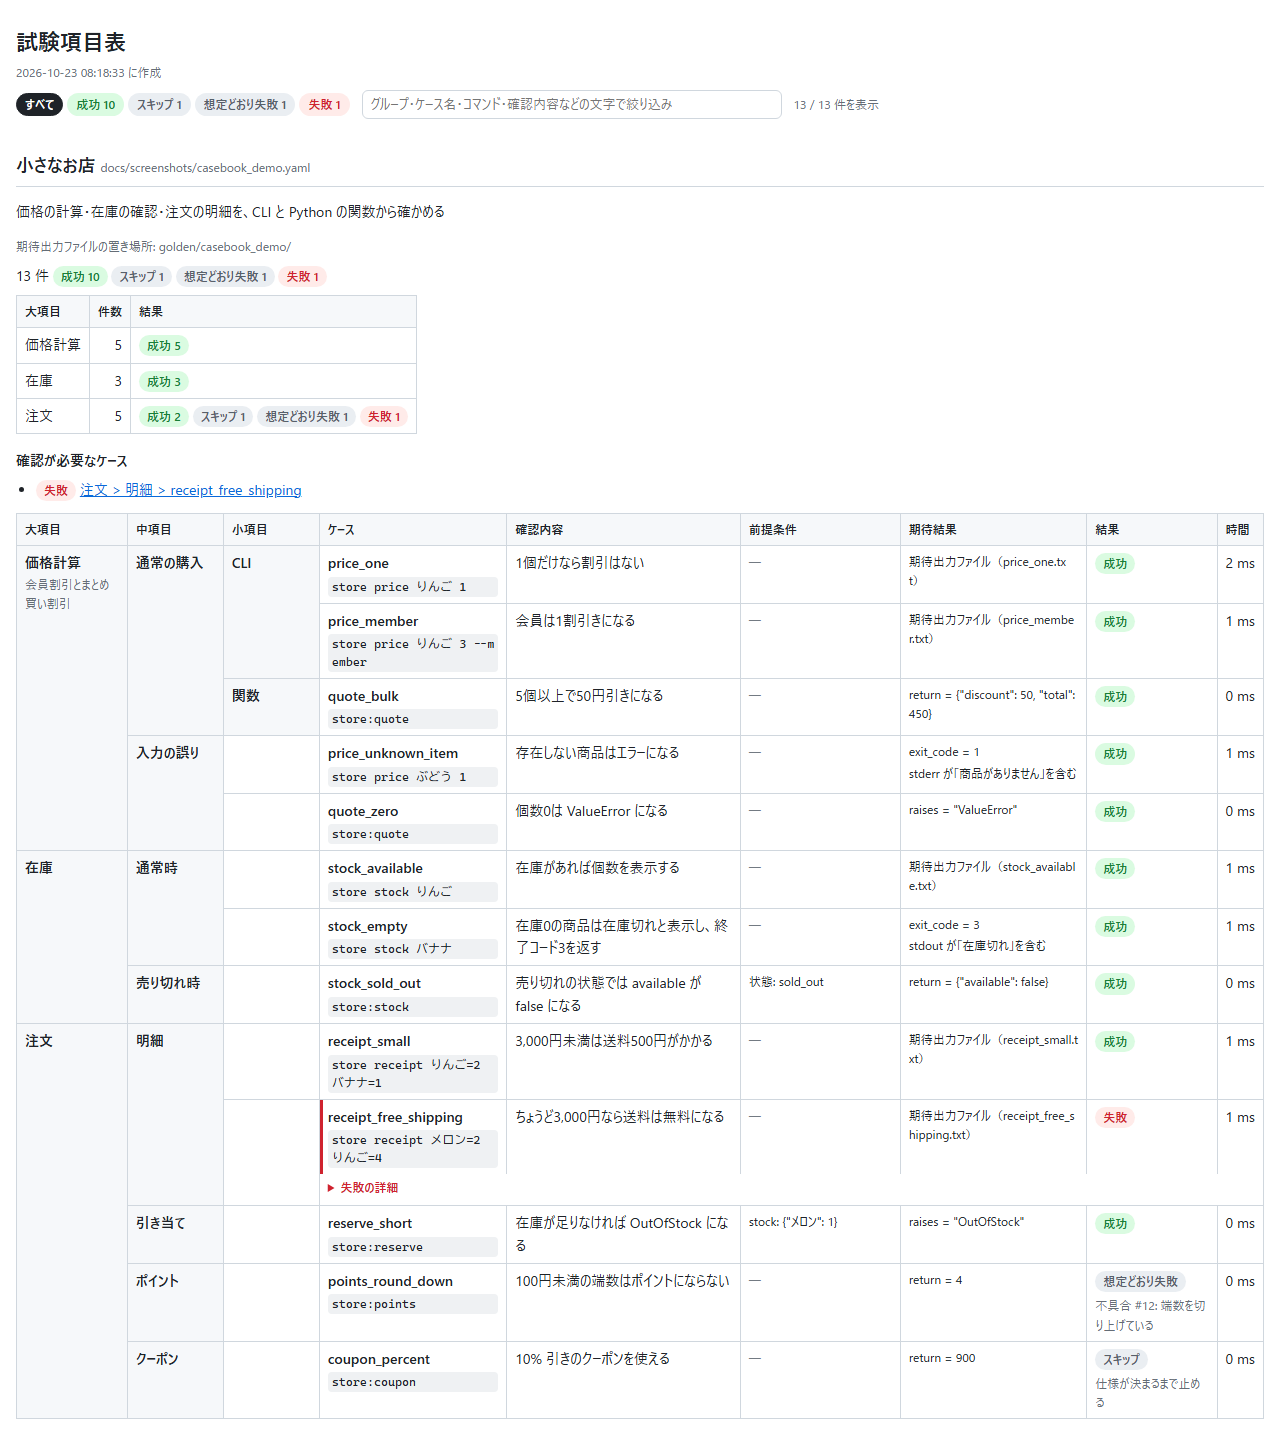
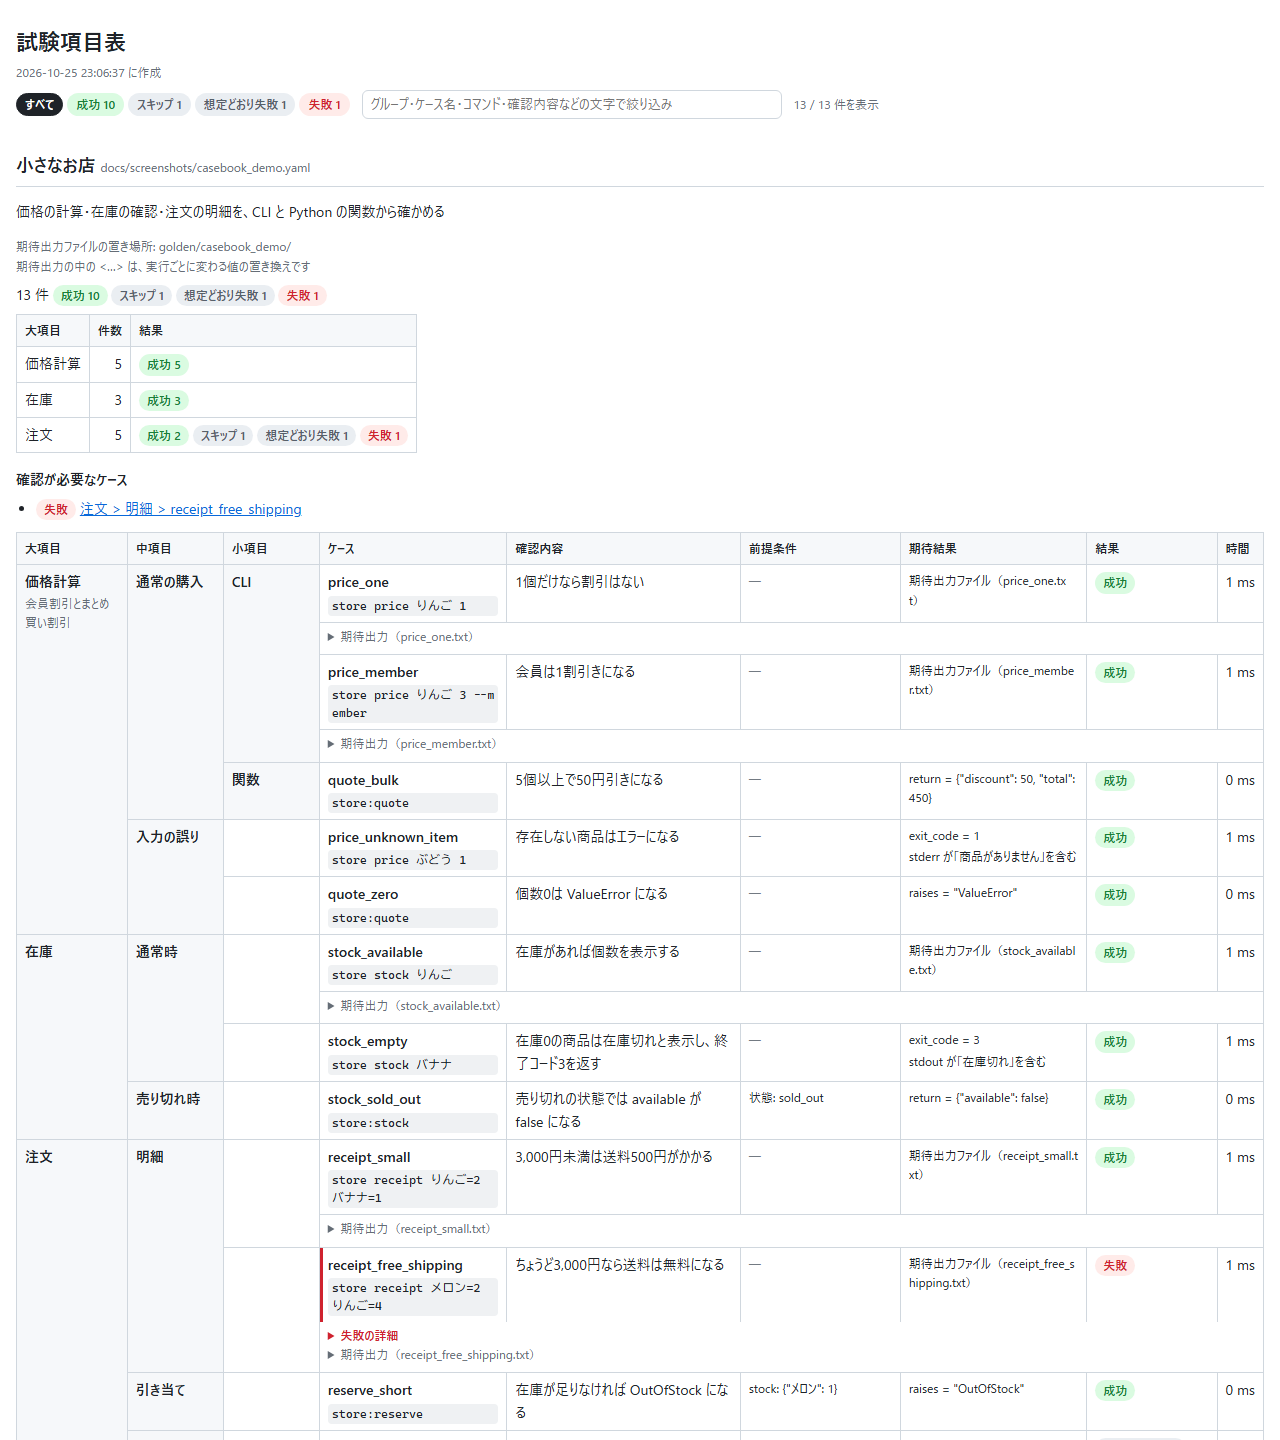
pytest-casebook: screenshots show the golden contents; clearer observe label (#46)
- The README screenshots are regenerated with 0.7.0: the folded golden rows are visible,
  and the top image opens the first one (price_one.txt) so the contents can be seen.
  scripts/screenshots.sh counts only case rows when trimming the top image and opens the
  first golden fold
- The intro sentence above the screenshot mentions the folded golden contents (en / ja)
- The Japanese report label 「観察: …」 becomes 「実行後の値: …」, matching the README
  section 「実行後の値 (observe)」

- README のスクショを 0.7.0 で作り直した。期待出力の折りたたみの行が写り、冒頭の画像では
  最初の期待出力（price_one.txt）を開いて中身を見せる。scripts/screenshots.sh は、冒頭の
  画像を切るときにケースの行だけを数え、最初の期待出力を開くようにした
- スクショの上の説明文にも、期待出力の折りたたみの一言を足した（日英）
- 日本語のレポートの「観察: …」を、README の節名（実行後の値 (observe)）に合わせて
  「実行後の値: …」にした

diff --git a/tests/test_setup_observe_expect.py b/tests/test_setup_observe_expect.py
@@ -415,7 +415,7 @@ def test_html_shows_precondition_and_expected(db_project: pytest.Pytester) -> No
     # 期待出力ファイルの置き場所はファイルごとに1回だけ出し、行にはファイル名だけを出す
     assert "期待出力ファイルの置き場所: golden/casebook_calc/" in page
     assert "期待出力ファイル（golden_case.txt）" in page
-    assert "観察: db.users" in page
+    assert "実行後の値: db.users" in page
 
 
 def test_observed_binary_file_is_size_and_hash(project: pytest.Pytester) -> None:

diff --git a/src/pytest_casebook/messages.py b/src/pytest_casebook/messages.py
@@ -55,7 +55,7 @@ TEXTS: dict[str, dict[str, Any]] = {
         "files": "ファイル: {files}",
         "env": "環境変数: {env}",
         "golden": "期待出力ファイル（{name}）",
-        "observe": "観察: {targets}",
+        "observe": "実行後の値: {targets}",
         "contains": "{label} が「{pattern}」を含む",
         "regex": "{label} が「{pattern}」（正規表現）に合う",
         "manual_steps": "手動: {steps}",

diff --git a/README.md b/README.md
@@ -20,7 +20,7 @@ A pytest plugin that runs test cases written in YAML and writes the results as a
 - Put **manual checks** that cannot be automated (looking at a screen, printed forms) in the same sheet, with the results written by hand ([how](#manual-cases-manual))
 - Organize cases into **categories, subcategories and items** (any depth) and write an **HTML test specification sheet** (in English or Japanese; [how](#html-report))
 
-Run `pytest --casebook-html=report.html` and the cases in your YAML come out as this test specification sheet. The group hierarchy is merged vertically, and preconditions, expected results and results sit on one row.
+Run `pytest --casebook-html=report.html` and the cases in your YAML come out as this test specification sheet. The group hierarchy is merged vertically, and preconditions, expected results and results sit on one row. The contents of each golden file are folded under its row (`price_one.txt` is expanded here).
 
 ![HTML report as a test specification sheet](https://raw.githubusercontent.com/gyuro-dev/pytest-casebook/main/docs/images/report-top-en.png)
 
